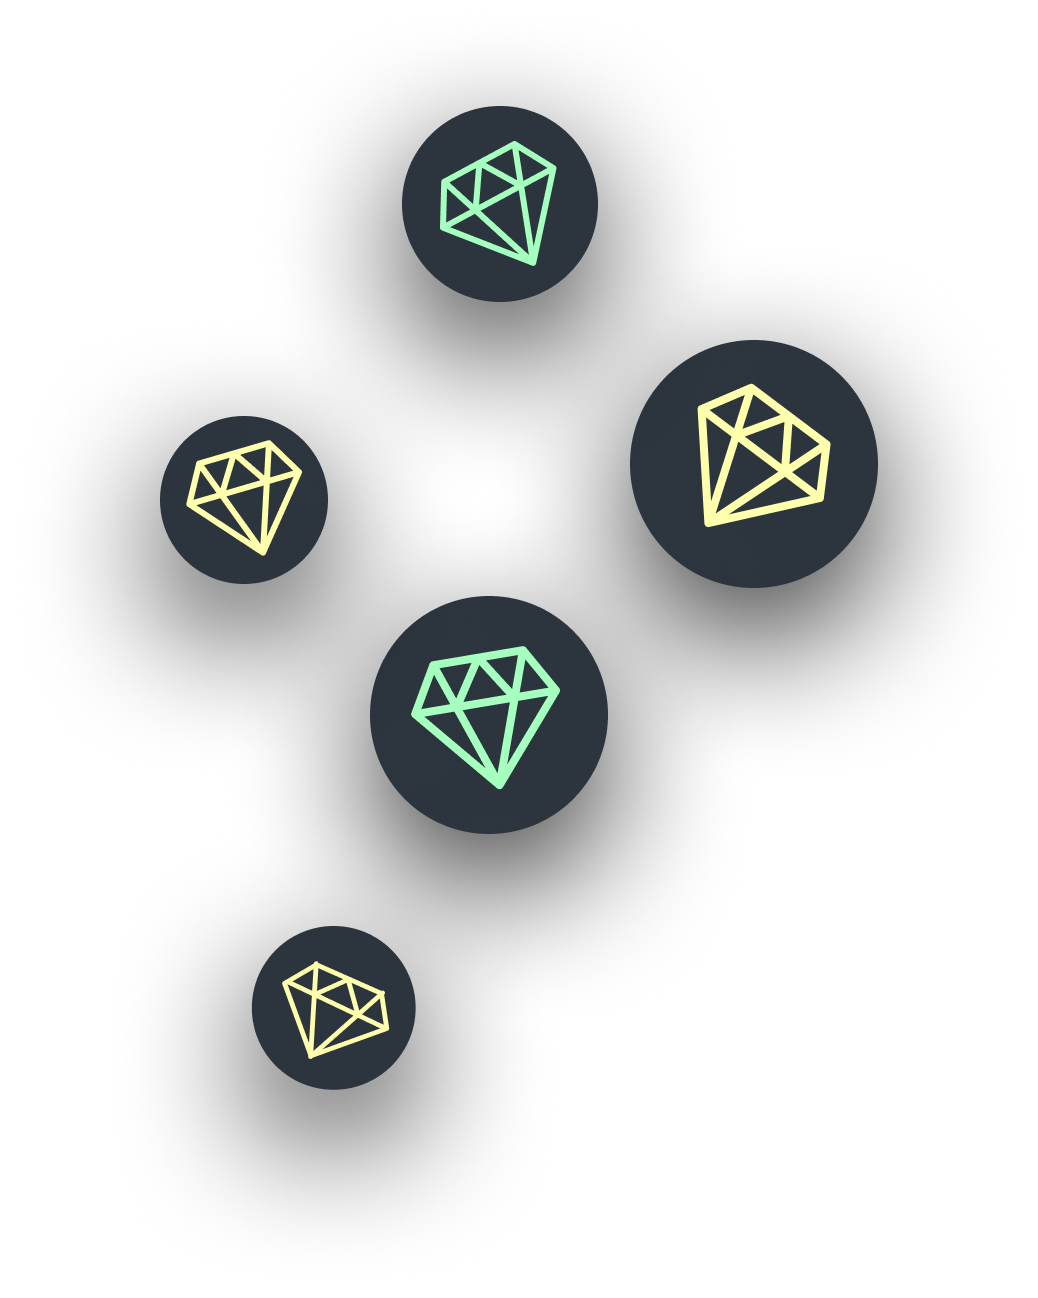
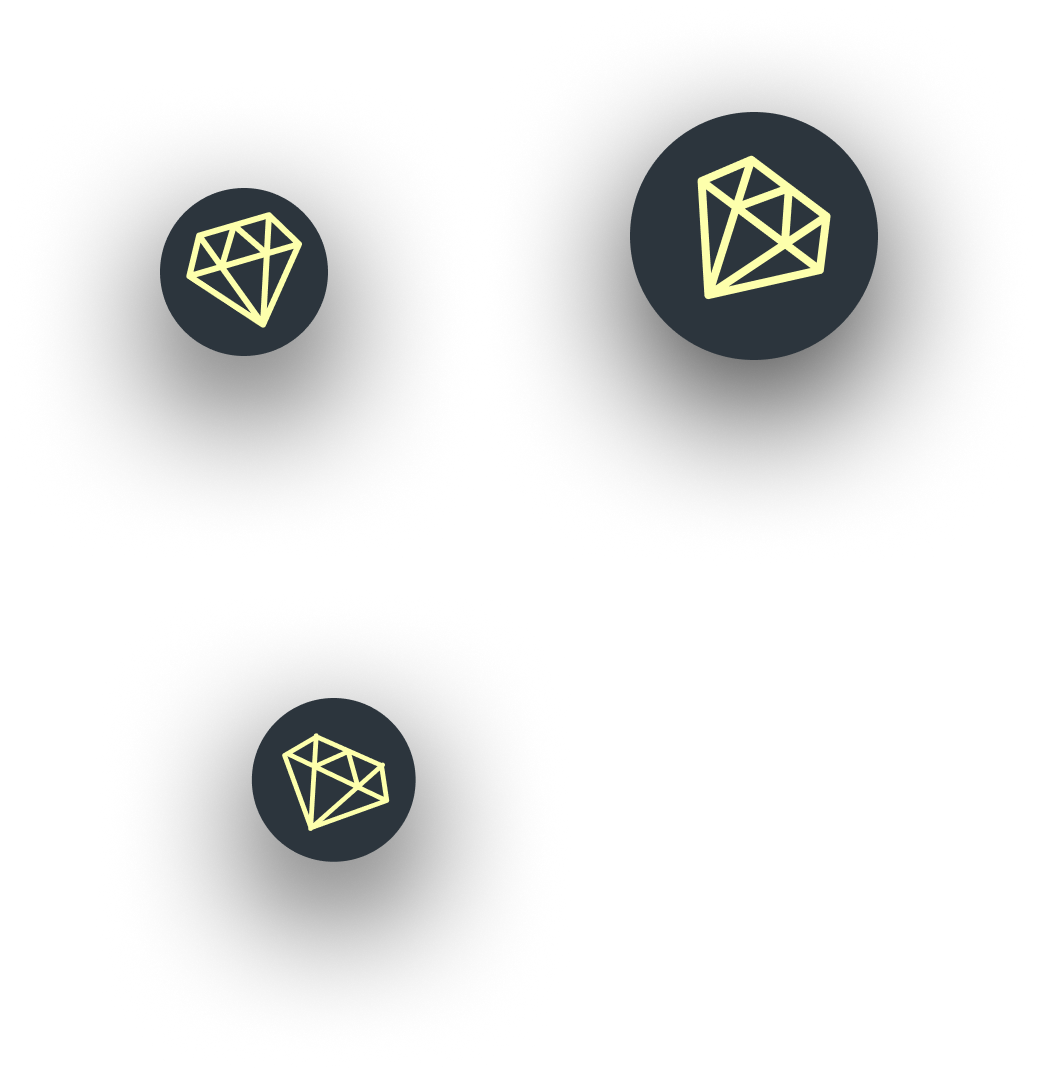
update

diff --git a/src/pages/home/Home.module.scss b/src/pages/home/Home.module.scss
@@ -1,6 +1,12 @@
 @use "../../helper/style/mixin";
 @use "../../helper/style/media";
 
+@keyframes float {
+  50% {
+     transform: translate(0, 20px);
+  }
+}
+
 .component {
   width: 100%;
   height: calc(var(--window-height) - var(--header-height));
@@ -315,18 +321,31 @@
 
 .top {
   display: flex;
-  margin-top: var(--header-height);
-  margin-left: auto;
-  margin-right: auto;
-  max-width: 64rem;
+  max-width: 80rem;
+  height: 43.75rem;
+  padding: 0 6rem;
+  flex-direction: row;
+  justify-content: flex-start;
+  align-items: center;
+  background-image: url("./assets/md_bg.png");
+  background-size: 100%;
+  background-repeat: no-repeat;
   @include mixin.until(media.$sm) {
     flex-direction: column-reverse;
+    align-items: flex-start;
+    justify-content: center;
+    height: 56.8rem;
+    background-image: url("./assets/sm_bg.png");
+    padding: 0;
   }
 
   .texts {
     font-size: 4rem;
-    width: 35rem;
+    width: 44rem;
     text-align: left;
+    display: flex;
+    flex-direction: column;
+    align-items: center;
     @include mixin.until(media.$sm) {
       font-size: 3.2rem;
       max-width: 31.5rem;
@@ -334,7 +353,8 @@
     }
 
     h1 {
-      margin-top: 8.8rem;
+      // margin-top: 8.8rem;
+      width: 100%;
       font-size: 4rem;
       @include mixin.until(media.$sm) {
         margin-top: 3.814rem;
@@ -343,6 +363,7 @@
     }
 
     p {
+      width: 100%;
       font-size: 1.5rem;
       margin-top: 1rem;
       @include mixin.until(media.$sm) {
@@ -370,7 +391,31 @@
     margin-right: 0;
     @include mixin.until(media.$sm) {
       width: 19.862rem;
-      margin-left: 3rem;
+      margin-left: 0;
+    }
+  }
+
+  .top_left_icon {
+    width: 2.2rem;
+    top: 11rem;
+    right: 20.9375rem;
+    position: absolute;
+    animation: float 3s ease-out infinite;
+    @include mixin.until(media.$sm) {
+      top: 14rem;
+      left: 5.9375rem;
+    }
+  }
+
+  .top_right_icon {
+    width: 3rem;
+    right: 9.6rem;
+    top: 18rem;
+    position: absolute;
+    animation: float 3s ease-out infinite;
+    @include mixin.until(media.$sm) {
+      top: 18rem;
+      left: 13.6rem;
     }
   }
 
@@ -385,7 +430,7 @@
   border: 1px solid #FDFFAC;
   box-shadow: 0px 24px 80px rgba(0, 0, 0, 0.8);
   border-radius: 24px;
-  margin: 9.6rem auto 0;
+  margin: 1.25rem auto 0;
   @include mixin.until(media.$sm) {
     width: 31.5rem;
     flex-direction: row-reverse;
@@ -707,6 +752,7 @@
       align-items: center;
       img {
         width: 12rem;
+        margin: 0 2.25rem;
       }
     }
     .app_item_box {
@@ -885,10 +931,11 @@
     flex-direction: row;  
     justify-content: center;
     align-items: center;
-    margin-top: -2rem;
+    margin-top: 2rem;
     @include mixin.until(media.$sm) {
       max-width: 31.5rem;
       flex-direction: column-reverse;
+      margin-top: 8rem;
     }
     p {
       width: 34.5rem;
@@ -910,6 +957,29 @@
       @include mixin.until(media.$sm) {
         width: 100%;
       }
+    }
+  }
+
+  .multiverse_float_top_icon {
+    width: 16rem;
+    position: absolute;
+    top: -2rem;
+    right: 15rem;
+    animation: float 3s ease-out infinite;
+    @include mixin.until(media.$sm) {
+      right: 12rem;
+    }
+  }
+
+  .multiverse_float_bottom_icon {
+    width: 18rem;
+    position: absolute;
+    bottom: 5rem;
+    right: 13.5rem;
+    animation: float 3s ease-out infinite;
+    @include mixin.until(media.$sm) {
+      top: 16rem;
+      left: 8rem;
     }
   }
 }
@@ -1176,8 +1246,8 @@
       font-size: 3.5rem;
     }
     img {
-      width: 13.163125rem;
-      height: 14rem;
+      width: 20.6875rem;
+      height: 17.0625rem;
       margin-top: 2.5rem;
     }
   }

diff --git a/src/pages/home/Home.tsx b/src/pages/home/Home.tsx
@@ -4,11 +4,7 @@ import { useWindowSize } from "../../hooks/use-window-size";
 import img from "./assets/card.png";
 import img1 from "./assets/img_1.png";
 import img2 from "./assets/img_2.png";
-import img3 from "./assets/img_3.png";
 import img5 from "./assets/img_5.png";
-import img6 from "./assets/img_6.png";
-import img8 from "./assets/img_8.png";
-import img9 from "./assets/img_9.png";
 import sm from "./assets/sm.png";
 import avatar from "./assets/avatar.png";
 import dashboard from "./assets/dashboard.png";
@@ -20,6 +16,10 @@ import featureIocn0 from "./assets/featureIcon0.png";
 import featureIocn1 from "./assets/featureIcon1.png";
 import featureIocn2 from "./assets/featureIcon2.png";
 import diamonds from "./assets/diamonds.png";
+import top_left_icon from "./assets/top_left_icon.png";
+import top_right_icon from "./assets/top_right_icon.png";
+import multiverse_top_icon from "./assets/multiverse_top_icon.png";
+import multiverse_bottom_icon from "./assets/multiverse_bottom_icon.png";
 
 import bybit from "./assets/bybit.svg";
 import market2 from "./assets/market2.svg";
@@ -259,24 +259,17 @@ export const Home: FC<HomeType> = () => {
 		<>
 			<section className={styles.component}>
 				<div className={styles.body}>
-					<section className={styles.top}>
+					<section className={styles.top + " " + styles.orb_canvas}>
 						<div className={styles.texts}>
 							<h1>Adventure Gold</h1>
 							<p>Building the Lootverse Infrastruture</p>
-							{/* <button
-								onClick={() => {
-									window.open("https://staking.adventuregold.org/#/", "_blank");
-								}}
-							>
-								Staking
-							</button> */}
 						</div>
 						<img src={img} alt={"img"} />
+						<img className={styles.top_left_icon} src={top_left_icon} alt={"img"} />
+						<img className={styles.top_right_icon} src={top_right_icon} alt={"img"} />
 					</section>
 					<section className={styles.about}>
-						{/* <img src={img1} alt={"img1"} /> */}
 						<div className={styles.texts}>
-							{/* <h2>About</h2> */}
 							<h3>
 								What is <span>Adventure Gold</span>
 							</h3>
@@ -456,6 +449,12 @@ export const Home: FC<HomeType> = () => {
 							</p>
 							<img src={diamonds} alt="" />
 						</div>
+						<img className={styles.multiverse_float_top_icon} src={multiverse_top_icon} alt="" />
+						<img
+							className={styles.multiverse_float_bottom_icon}
+							src={multiverse_bottom_icon}
+							alt=""
+						/>
 					</section>
 					<section className={styles.roadmap}>
 						<div className={styles.left_box}>
